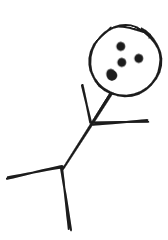
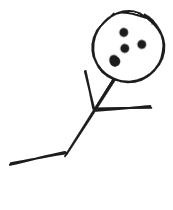
update

Changed region(s): [[0.506, 0.0286, 0.9821, 0.4571], [0.0298, 0.3143, 0.8929, 0.9714]]

diff --git a/js/main.js b/js/main.js
@@ -2,17 +2,30 @@
 const wordArray = ['fun', 'running', 'sound', 'aaaaaaa'];
 
 /*----- state variables -----*/
-let guessesleft, letterguess, playerguesses, secretWord;
+let guessesleft, playerguesses, secretWord;
 
 /*----- cached elements  -----*/
 const guess = document.querySelector('input');
 const message = document.querySelector('main > h1');
 const letters = document.getElementById('word');
+const letterguess = document.querySelector('input').value;
+const arrSecretWord = secretWord.split('');
 /*----- event listeners -----*/
-document.querySelector('button').addEventListener('click', buildguess);
-
+document.getElementById('wordbuild').addEventListener('click', buildguess);
+document.getElementById(guessselect).addEventListener('click', guessCheck);
 
 /*----- functions -----*/
+function guessCheck() {
+    secretWord.split('').forEach(char => {
+        if (letterguess.toLocaleLowerCase() === char) {
+
+        } else {
+            guessesleft - 1
+            
+        }
+    })
+}
+
 function chooseWord() {
     let i = Math.floor(Math.random() * wordArray.length);
     secretWord = wordArray[i];
@@ -36,10 +49,11 @@ function buildguess() {
     while (word.lastElementChild) {
         word.removeChild(word.lastElementChild);
       }
+    render();
 }
 
 function displaySpaceman() {
-
+    const spaceman = querySelector('main > div > img');
 }
 
 function setupBoard() {

diff --git a/index.html b/index.html
@@ -14,11 +14,12 @@
     <main>
         <h1>Hang Man</h1>
         <h2></h2>
-        <div><img src="images/1.png"></div>
+        <div><img src="images/0.png"></div>
         <div id="word">
         </div>
     </main>
     <input type="text" maxlength="1" placeholder="?">
-    <button>Generate</button>
+    <button id="guessselect">guess</button>
+    <button id="wordbuild">Generate</button>
 </body>
 </html>
